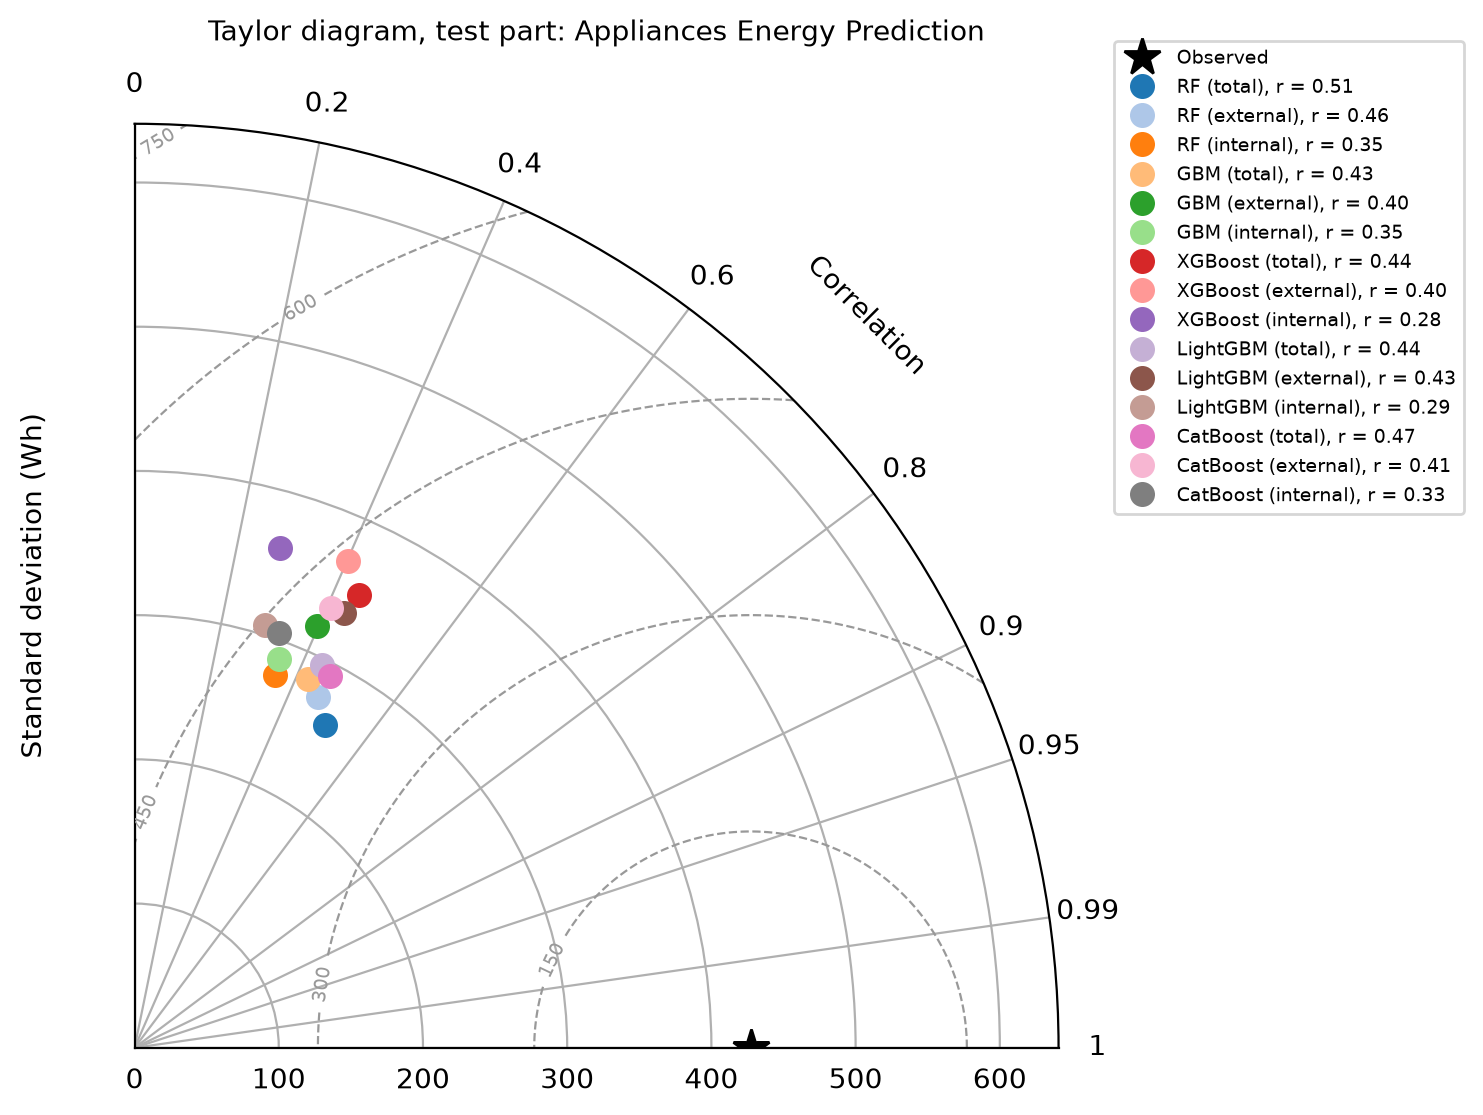
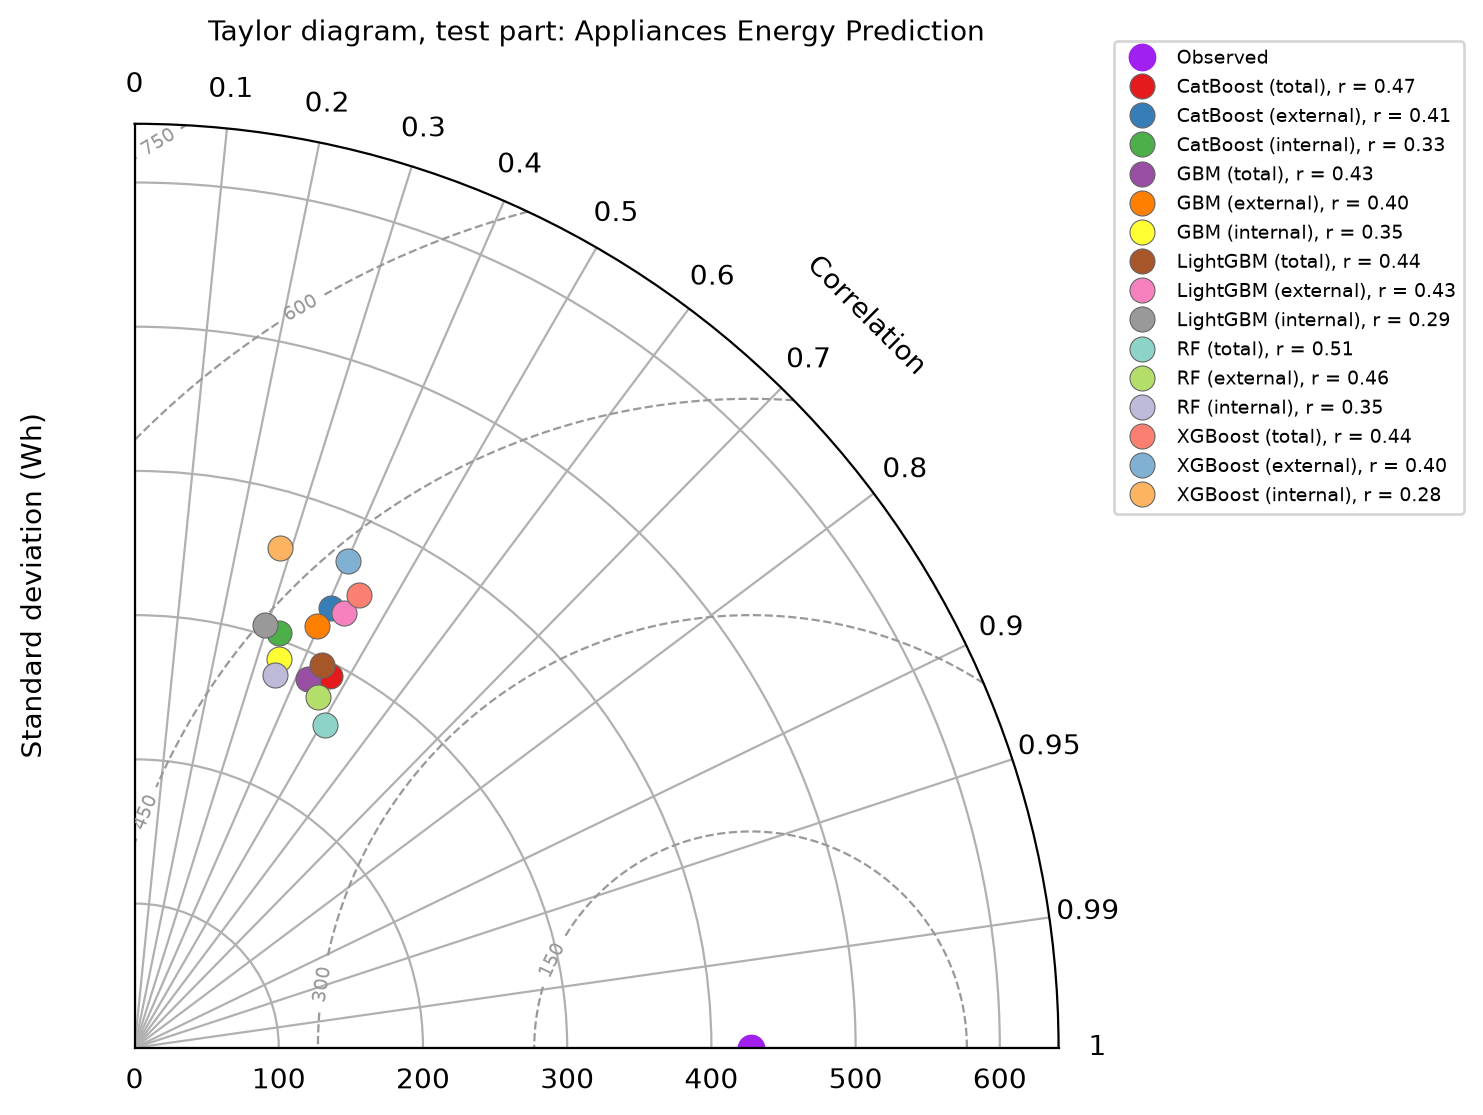
Taylor diagrams in the paper's colours and legend order

diff --git a/src/moon2024/taylor.py b/src/moon2024/taylor.py
@@ -24,6 +24,14 @@ from .compare import DATASET_NAMES
 
 FIGURES = {"urc": ("fig02", "kWh"), "aep": ("fig03", "Wh")}
 INPUTS = ["total", "external", "internal"]
+# The published figures' colours, in their legend order (models alphabetically, then total, external, internal)
+PAPER_COLOURS = {
+    "CatBoost (total)": "#E41A1C", "CatBoost (external)": "#377EB8", "CatBoost (internal)": "#4DAF4A",
+    "GBM (total)": "#984EA3", "GBM (external)": "#FF7F00", "GBM (internal)": "#FFFF33",
+    "LightGBM (total)": "#A65628", "LightGBM (external)": "#F781BF", "LightGBM (internal)": "#999999",
+    "RF (total)": "#8DD3C7", "RF (external)": "#B3DE69", "RF (internal)": "#BEBADA",
+    "XGBoost (total)": "#FB8072", "XGBoost (external)": "#80B1D3", "XGBoost (internal)": "#FDB462",
+}
 
 
 def stats(results: Path, dataset: str) -> pd.DataFrame:
@@ -51,7 +59,7 @@ def taylor_diagram(table: pd.DataFrame, title: str, unit: str, path: Path) -> No
     ax.set_ylim(0, limit)
 
     # Correlation labels on the arc
-    corrs = np.array([0, 0.2, 0.4, 0.6, 0.8, 0.9, 0.95, 0.99, 1.0])
+    corrs = np.array([0, 0.1, 0.2, 0.3, 0.4, 0.5, 0.6, 0.7, 0.8, 0.9, 0.95, 0.99, 1.0])
     ax.set_xticks(np.arccos(corrs))
     ax.set_xticklabels([f"{c:g}" for c in corrs])
     ax.text(np.pi / 4, limit * 1.12, "Correlation", ha="center", va="center", rotation=-45)
@@ -63,11 +71,11 @@ def taylor_diagram(table: pd.DataFrame, title: str, unit: str, path: Path) -> No
     contours = ax.contour(theta, radius, crmse, levels=5, colors="0.6", linewidths=0.8, linestyles="--")
     ax.clabel(contours, fmt="%.0f", fontsize=7)
 
-    ax.plot(0, ref, "k*", markersize=14, label="Observed")
-    colours = plt.cm.tab20(np.linspace(0, 1, 20))
-    for colour, (label, row) in zip(colours, table.drop(index="observed").iterrows()):
-        ax.plot(np.arccos(row["corr"]), row["std"], "o", color=colour, markersize=8,
-                label=f"{label}, r = {row['corr']:.2f}")
+    ax.plot(0, ref, "o", color="#A020F0", markersize=9, label="Observed")
+    for label, colour in PAPER_COLOURS.items():
+        row = table.loc[label]
+        ax.plot(np.arccos(row["corr"]), row["std"], "o", color=colour, markersize=9, markeredgecolor="0.4",
+                markeredgewidth=0.4, label=f"{label}, r = {row['corr']:.2f}")
     ax.legend(loc="upper left", bbox_to_anchor=(1.05, 1.1), fontsize=7)
     ax.set_title(title, fontsize=10, pad=30)
     fig.savefig(path, dpi=200, bbox_inches="tight")
